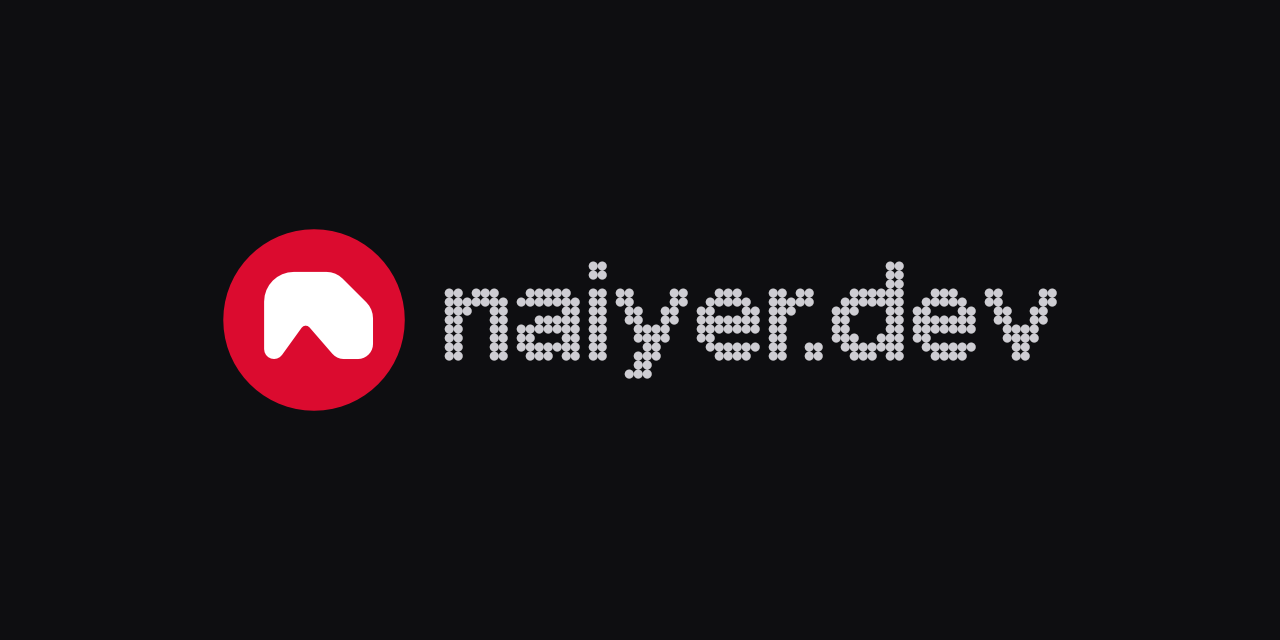
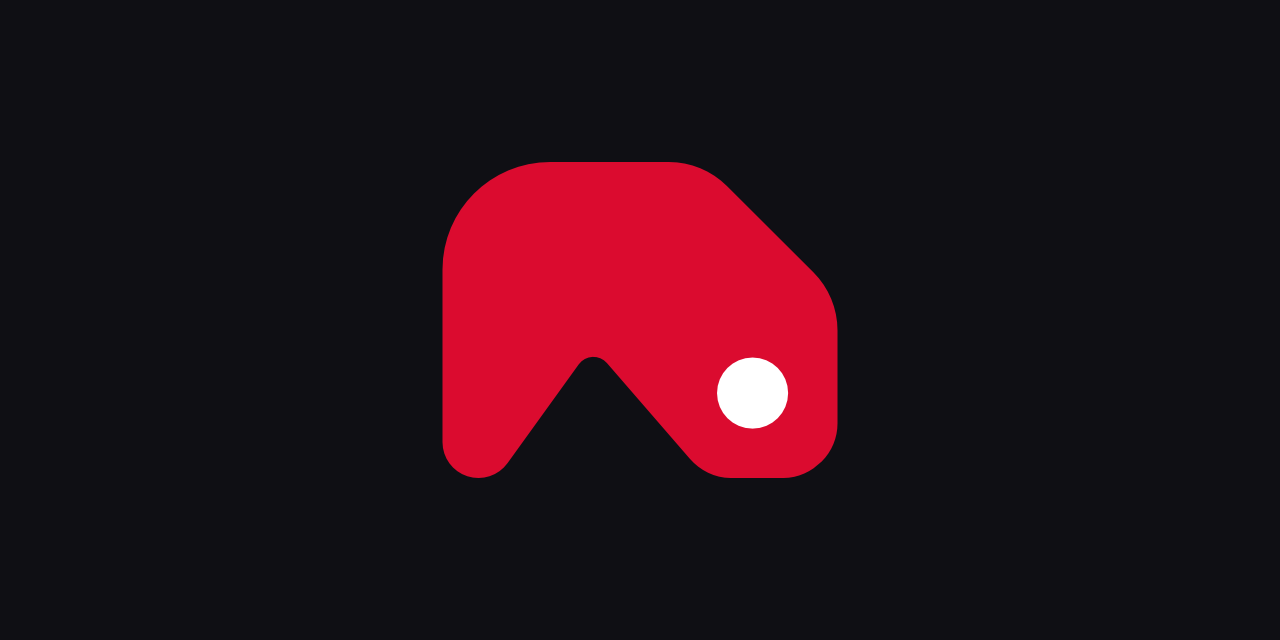
feat: simpler brand identity

Changed region(s): [[0.1562, 0.25, 0.8438, 0.75]]

diff --git a/src/styles/_sections.scss b/src/styles/_sections.scss
@@ -7,6 +7,10 @@
 		--logo-size: calc(42px + 0.5vw);
 		inline-size: var(--logo-size);
 		min-inline-size: var(--logo-size);
+		
+		img {
+			border-radius: 0;
+		}
 	}
 	
 	.navbar {
